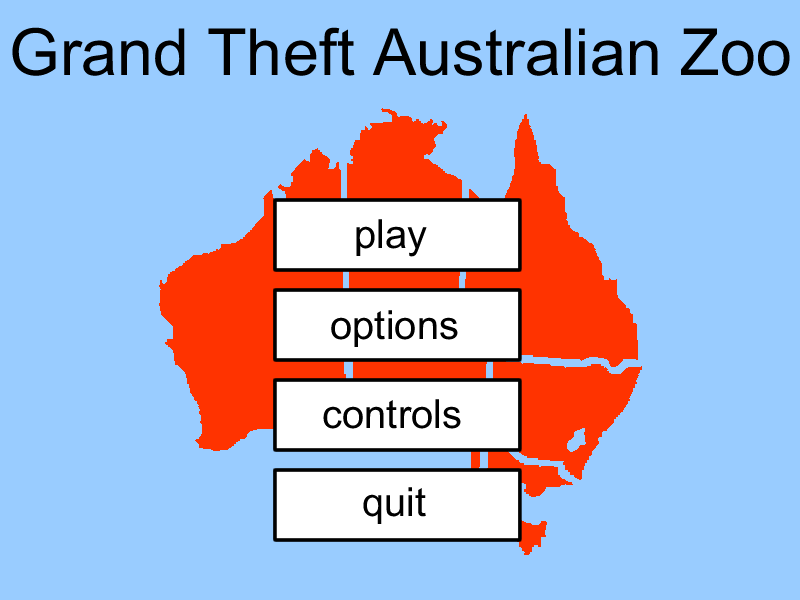
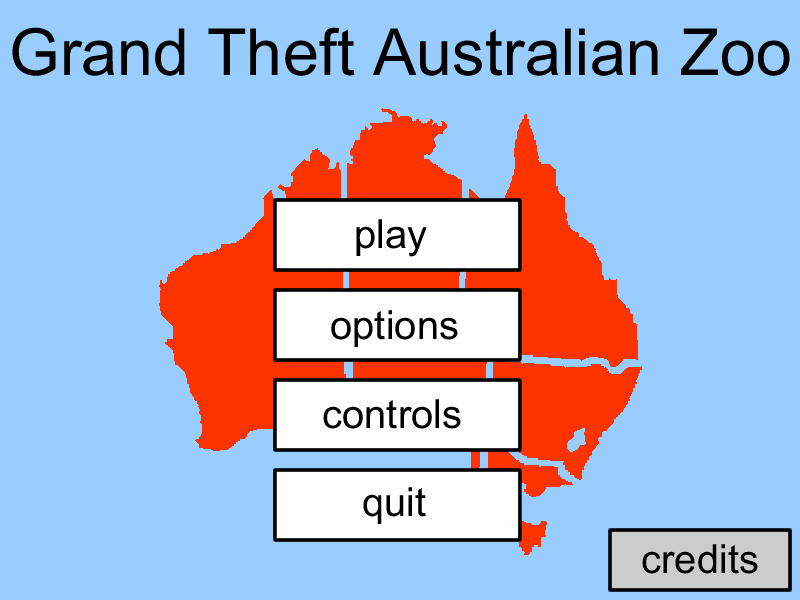
control screen

Changed region(s): [[0.75, 0.87, 1.0, 0.99]]

diff --git a/src/menus/pauseScreen.py b/src/menus/pauseScreen.py
@@ -8,6 +8,7 @@ import pygame
 from pygame.locals import *
 
 from utils import image_util
+from menus.controlScreen import ControlScreen
 
 CONTINUE = 0
 OPTIONS = 1
@@ -31,9 +32,11 @@ class PauseScreen:
         
         self.pressed = []
         for key in pygame.key.get_pressed():
-            self.pressed.append( False )
+            self.pressed.append( True )
             
         self.unpause = False
+        
+        self.control_screen = ControlScreen(self.game)
     
     def get_input(self):
         self.getEvents()
@@ -66,11 +69,11 @@ class PauseScreen:
         keys = pygame.key.get_pressed()
 
         # quit
-        #if(keys[K_ESCAPE]):
-        #    if not self.pressed[K_ESCAPE]:
-        #        self.cont()
-        #else:
-        #    self.pressed[K_ESCAPE] = False
+        if(keys[K_ESCAPE]):
+            if not self.pressed[K_ESCAPE]:
+                self.cont()
+        else:
+            self.pressed[K_ESCAPE] = False
     
         # select
         if(keys[K_SPACE]):
@@ -118,10 +121,13 @@ class PauseScreen:
         self.leave()
     
     def options(self):
-        pass
+        for x in xrange(len(self.pressed)):
+            self.pressed[x] = True
     
     def controls(self):
-        pass
+        self.control_screen.loop()
+        for x in xrange(len(self.pressed)):
+            self.pressed[x] = True
     
     def main_menu(self):
         self.leave()
@@ -151,9 +157,8 @@ class PauseScreen:
             self.main_menu()
 
     def leave(self):
-        self.pressed = []
-        for key in pygame.key.get_pressed():
-            self.pressed.append( False )
+        for x in xrange(len(self.pressed)):
+            self.pressed[x] = True
             
         self.unpause = True
 
@@ -171,9 +176,10 @@ class PauseScreen:
             
         pygame.display.flip()
     
-    def loop(self, pressed):
-        self.unpause = False
-        self.pressed = pressed
+    def loop(self):
+        for x in xrange(len(self.pressed)):
+            self.pressed[x] = True
         while self.unpause is False:
             self.draw()
             self.get_input()
+        self.unpause = False

diff --git a/src/menus/controlScreen.py b/src/menus/controlScreen.py
@@ -1,0 +1,77 @@
+'''
+Created on Apr 29, 2011
+
+@author: krakauer
+'''
+import sys
+import pygame
+from pygame.locals import *
+
+from utils import image_util
+
+class ControlScreen:
+    
+    def __init__(self, game):
+        self.game = game
+        self.screen = self.game.screen
+        self.image = image_util.load_image("controls.png")
+    
+        self.back_rect = Rect(656,540,131,55)
+        
+        self.pressed = []
+        for key in pygame.key.get_pressed():
+            self.pressed.append( True )
+            
+        self.go_back = False
+    
+    def get_input(self):
+        self.getEvents()
+        self.getButtonPresses()
+    
+    def getEvents(self):
+        for event in pygame.event.get():
+            if event.type == QUIT:
+                sys.exit()
+            elif event.type == MOUSEBUTTONUP:
+                pos = pygame.mouse.get_pos()
+                if self.back_rect.collidepoint(pos):
+                    self.back()
+    
+    def getButtonPresses(self):
+        keys = pygame.key.get_pressed()
+
+        # quit
+        if(keys[K_ESCAPE]):
+            if not self.pressed[K_ESCAPE]:
+                self.back()
+        else:
+            self.pressed[K_ESCAPE] = False
+    
+        # select
+        if(keys[K_SPACE]):
+            if not self.pressed[K_SPACE]:
+                self.back()
+        else:
+            self.pressed[K_SPACE] = False
+
+        if(keys[K_RETURN]):
+            if not self.pressed[K_RETURN]:
+                self.back()
+        else:
+            self.pressed[K_RETURN] = False
+
+    def back(self):
+        for x in xrange(len(self.pressed)):
+            self.pressed[x] = True
+        self.go_back = True
+
+    def draw(self):
+        self.screen.blit(self.image, (0,0))
+            
+        pygame.display.flip()
+    
+    def loop(self):
+        self.go_back = False
+        while self.go_back is False:
+            self.draw()
+            self.get_input()

diff --git a/src/menuScreen.py b/src/menuScreen.py
@@ -9,6 +9,7 @@ from pygame.locals import *
 
 from utils import image_util
 from gameloop import Game
+from menus.controlScreen import ControlScreen
 
 PLAY = 0
 OPTIONS = 1
@@ -29,6 +30,10 @@ class MenuScreen:
         self.options_rect = Rect(275,290,245,70)
         self.controls_rect = Rect(275,380,245,70)
         self.quit_rect = Rect(275,470,245,70)
+        
+        self.credits_rect = Rect(610, 530, 180, 60)
+        
+        self.controlScreen = ControlScreen(self.game)
         
         self.pressed = []
         for key in pygame.key.get_pressed():
@@ -59,6 +64,8 @@ class MenuScreen:
                 elif self.quit_rect.collidepoint(pos):
                     self.index = QUIT
                     self.quit()
+                elif self.credits_rect.collidepoint(pos):
+                    self.credits()
     
     def getButtonPresses(self):
         keys = pygame.key.get_pressed()
@@ -116,10 +123,13 @@ class MenuScreen:
         pass
     
     def controls(self):
-        pass
+        self.controlScreen.loop()
     
     def quit(self):
         sys.exit()
+
+    def credits(self):
+        pass
 
     def up(self):
         self.index -= 1

diff --git a/src/gameloop.py b/src/gameloop.py
@@ -136,7 +136,7 @@ class Game:
         if(keys[K_ESCAPE]):
             if not self.pressed[K_ESCAPE]:
                 self.pressed[K_ESCAPE] = True
-                self.pauseMenu.loop(self.pressed)
+                self.pauseMenu.loop()
                 #figure out what we wanted to do
                 if self.pauseMenu.index is CONTINUE:
                     self.hud.draw()
